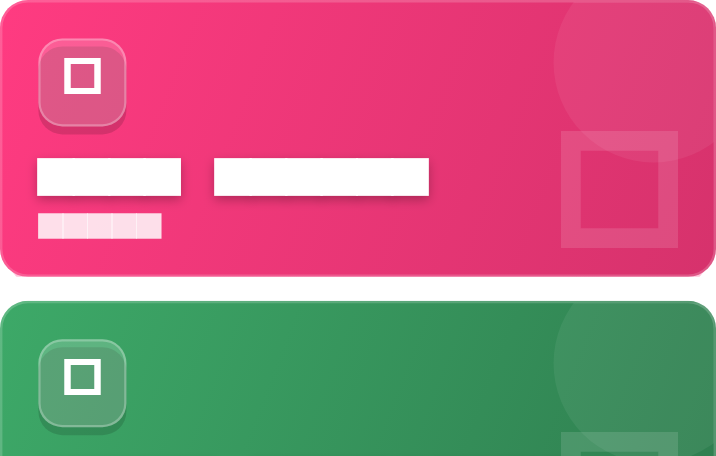
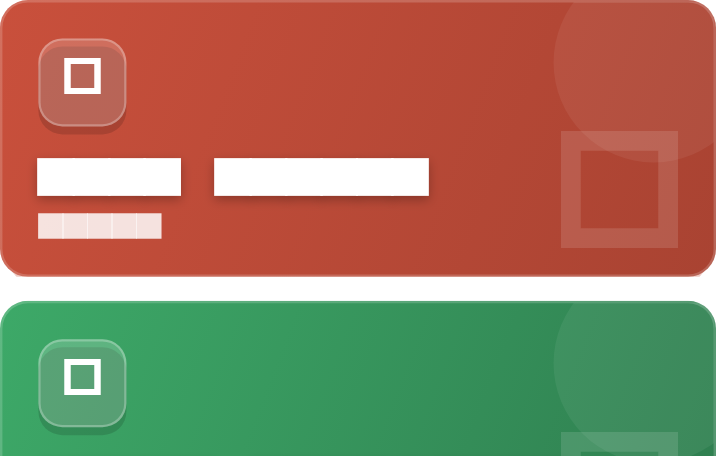
feat: 5 sekmeli alt nav (mockup 3) + kalan off-palet tonlar palete cekildi
- AppShell: Kategori ve Listik (liderlik) sekmeleri eklendi; mockup sirasi
  Sereke/Kategori/Pesbazi/Listik/Profil; liderlik refresh sinyali bagli
- playCyan gokmavi->teal, playPink pembe->nar, playPurple indigo->erik,
  duelGradient magenta->nar; matchmaking rastgele karti nar tonu
- Tarayicida dogrulandi: onboarding/giris/home/kategori/liderlik/profil/
  quiz akisi mockuplarla birebir

diff --git a/zankurd_mobile/lib/src/screens/app_shell.dart b/zankurd_mobile/lib/src/screens/app_shell.dart
@@ -10,7 +10,9 @@ import '../utils/app_route.dart';
 import '../utils/error_reporter.dart';
 import '../widgets/branded_loader.dart';
 import '../widgets/coach_mark.dart';
+import 'categories_tab.dart';
 import 'home_screen.dart';
+import 'leaderboard_screen.dart';
 import 'learning_screen.dart';
 import 'onboarding_screen.dart';
 import 'profile_name_gate_screen.dart';
@@ -40,6 +42,7 @@ class _AppShellState extends State<AppShell> {
   final GlobalKey _profileNavKey = GlobalKey();
   final GlobalKey _shellStackKey = GlobalKey();
   final ValueNotifier<int> _homeRefresh = ValueNotifier<int>(0);
+  final ValueNotifier<int> _leaderboardRefresh = ValueNotifier<int>(0);
   final ValueNotifier<int> _profileRefresh = ValueNotifier<int>(0);
   bool _checkingOnboarding = true;
   bool _showOnboarding = false;
@@ -64,6 +67,7 @@ class _AppShellState extends State<AppShell> {
     _homeScrollController.dispose();
     _profileScrollController.dispose();
     _homeRefresh.dispose();
+    _leaderboardRefresh.dispose();
     _profileRefresh.dispose();
     super.dispose();
   }
@@ -180,9 +184,14 @@ class _AppShellState extends State<AppShell> {
             onOpenLearning: () => Navigator.of(
               context,
             ).push(AppRoute.to(LearningScreen(repository: widget.repository))),
-            onOpenPlay: () => setState(() => _tab = 1),
+            onOpenPlay: () => setState(() => _tab = 2),
           ),
+          CategoriesTab(repository: widget.repository),
           PlayHubScreen(repository: widget.repository),
+          LeaderboardScreen(
+            repository: widget.repository,
+            refreshSignal: _leaderboardRefresh,
+          ),
           ProfileScreen(
             repository: widget.repository,
             refreshSignal: _profileRefresh,
@@ -240,8 +249,7 @@ class _AppShellState extends State<AppShell> {
               if (_tab == i) {
                 final controller = switch (i) {
                   0 => _homeScrollController,
-                  1 => null,
-                  2 => _profileScrollController,
+                  4 => _profileScrollController,
                   _ => null,
                 };
                 if (controller != null && controller.hasClients) {
@@ -253,7 +261,8 @@ class _AppShellState extends State<AppShell> {
                 }
               } else {
                 if (i == 0) _homeRefresh.value++;
-                if (i == 2) _profileRefresh.value++;
+                if (i == 3) _leaderboardRefresh.value++;
+                if (i == 4) _profileRefresh.value++;
                 setState(() => _tab = i);
               }
             },
@@ -267,12 +276,22 @@ class _AppShellState extends State<AppShell> {
                 label: ku ? 'Sereke' : 'Ana Sayfa',
               ),
               NavigationDestination(
+                icon: const Icon(Icons.grid_view_outlined),
+                selectedIcon: const Icon(Icons.grid_view_rounded),
+                label: ku ? 'Kategorî' : 'Kategori',
+              ),
+              NavigationDestination(
                 icon: KeyedSubtree(
                   key: _playNavKey,
                   child: const Icon(Icons.sports_esports_outlined),
                 ),
                 selectedIcon: const Icon(Icons.sports_esports),
                 label: ku ? 'Pêşbazî' : 'Yarış',
+              ),
+              NavigationDestination(
+                icon: const Icon(Icons.emoji_events_outlined),
+                selectedIcon: const Icon(Icons.emoji_events),
+                label: ku ? 'Lîstik' : 'Liderlik',
               ),
               NavigationDestination(
                 icon: KeyedSubtree(

diff --git a/zankurd_mobile/lib/src/theme/app_theme.dart b/zankurd_mobile/lib/src/theme/app_theme.dart
@@ -274,11 +274,11 @@ class AppTheme {
   static const brandOrange = Color(0xFF3DA968); // Kürdistan yeşili — ana aksan
   static const brandOrangeWarm = Color(0xFF2F7D4F); // Koyu yeşil (gradyan ucu)
   static const playGreen = Color(0xFF3DA968); // Öğrenme kimliği (yeşil)
-  static const playPink = Color(0xFFFF3B81); // Sıcak pembe — 1v1/rekabet (legacy)
-  static const playCyan = Color(0xFF38BDF8); // Gökmavi — oda/mod kartları (legacy)
+  static const playPink = Color(0xFFC9503C); // Nar kırmızısı — 1v1/rekabet (mockup paleti)
+  static const playCyan = Color(0xFF2E9E93); // Teal — oda/mod kartları (mockup paleti)
   static const playPurple = Color(
-    0xFF6C5CE7,
-  ); // Eski indigo (legacy referans)
+    0xFF6B3A7A,
+  ); // Erik moru — mockup kategori paleti tonu
 
   // ============ Dark Mode Palette (Pirs — koyu ikincil tema) ============
   // Legacy token names retained for existing screen consumers.
@@ -447,9 +447,10 @@ class AppTheme {
   }
 
   // Decorative gradients for QuickPlayGrid tiles.
+  // Nar kırmızısı — mockup paleti (eski pembe-magenta bırakıldı).
   static const List<Color> duelGradient = [
-    Color(0xFFFF416C),
-    Color(0xFFFF4B2B),
+    Color(0xFFE5533D),
+    Color(0xFFB6402F),
   ];
   static const List<Color> tournamentGradient = [
     Color(0xFF00BFA5),

diff --git a/zankurd_mobile/lib/src/screens/matchmaking_screen.dart b/zankurd_mobile/lib/src/screens/matchmaking_screen.dart
@@ -583,7 +583,7 @@ class _MatchmakingScreenState extends State<MatchmakingScreen>
               key: const ValueKey('matchmaking-duel-card'),
               decoration: BoxDecoration(
                 gradient: const LinearGradient(
-                  colors: [AppTheme.playPink, Color(0xFFB91F70)],
+                  colors: [AppTheme.playPink, Color(0xFF933527)],
                 ),
                 borderRadius: BorderRadius.circular(AppRadius.card),
                 border: Border.all(